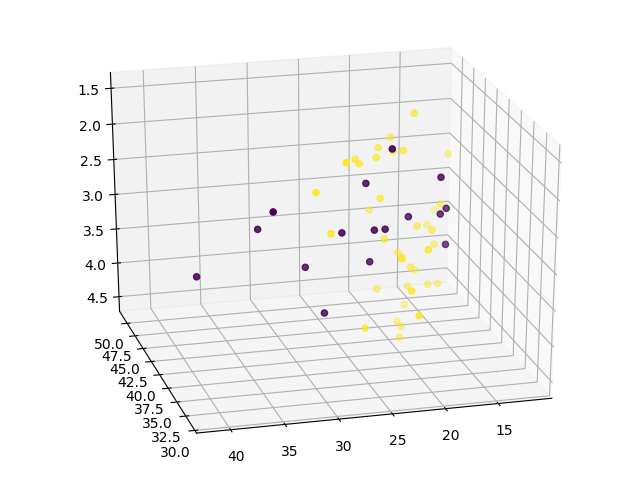
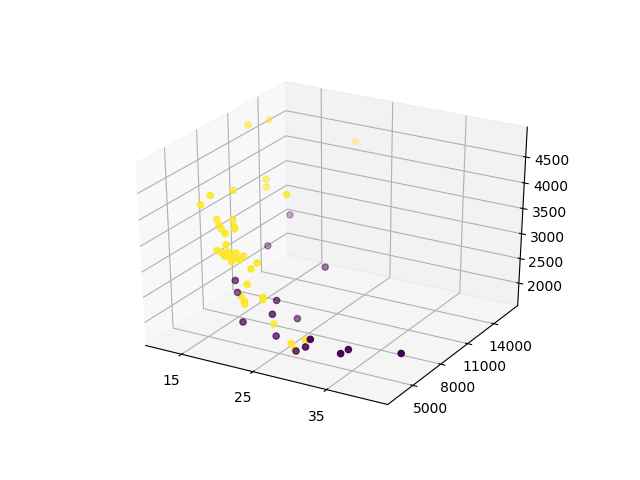
modified:   examples/markdown.html 	modified:   examples/markdown.txt 	modified:   examples/production_for.png 	modified:   examples/svm.html 	modified:   examples/svm.txt 	modified:   examples/train_for.png

diff --git a/examples/markdown.html b/examples/markdown.html
@@ -66,7 +66,7 @@ int foo() {
 <tr><td align="left"> AMC Spirit             </td><td align="center">3,799   </td><td align="right"> 22       </td><td align="right"> 2,640         </td></tr>
 <tr><td align="left"> Buick Century          </td><td align="center">4,816   </td><td align="right"> 20       </td><td align="right"> 3,250         </td></tr>
 <tr><td align="left"> Buick Electra          </td><td align="center">7,827   </td><td align="right"> 15       </td><td align="right"> 4,080         </td></tr>
-<tr><td align="left" colspan="3"> Averge Weight:         </td><td align="right">                  <strong>3,250</strong>      </td></tr>
+<tr><td align="left" colspan="3"> Average Weight:        </td><td align="right">                  <strong>3,250</strong>      </td></tr>
 </tbody>
 </table>
 <h2><a href="#images" id="images">Images</a></h2>

diff --git a/examples/svm.html b/examples/svm.html
@@ -35,15 +35,20 @@ import matplotlib.pyplot as plt
 from sfi import Data
 import imageio as io
 import os
-from mpl_toolkits.mplot3d import Axes3D
+from mpl_toolkits import mplot3d
 
 X = np.array(Data.get(&quot;foreign mpg price weight&quot;))
 
-fig = plt.figure()
-ax = Axes3D(fig, elev=-155, azim=105)
-ax.scatter(X[:, 1], X[:,2], X[:, 3], c=X[:,0]&lt;0.1, marker='o')
+
+ax = plt.axes(projection='3d')
+plt.xticks([10, 20, 30, 40])
+plt.yticks([3000, 6000, 9000, 12000, 15000, 18000])
+plt.zticks([1500, 2500, 3500, 4500, 5500])
+ax.scatter(X[:,1], X[:,2],X[:, 3], c=X[:,0]&lt;0.1, marker='o')
+
 plt.savefig(&quot;train_for.png&quot;)
 plt.close()
+
 end
 </code></pre>
 <pre><code></code></pre>
